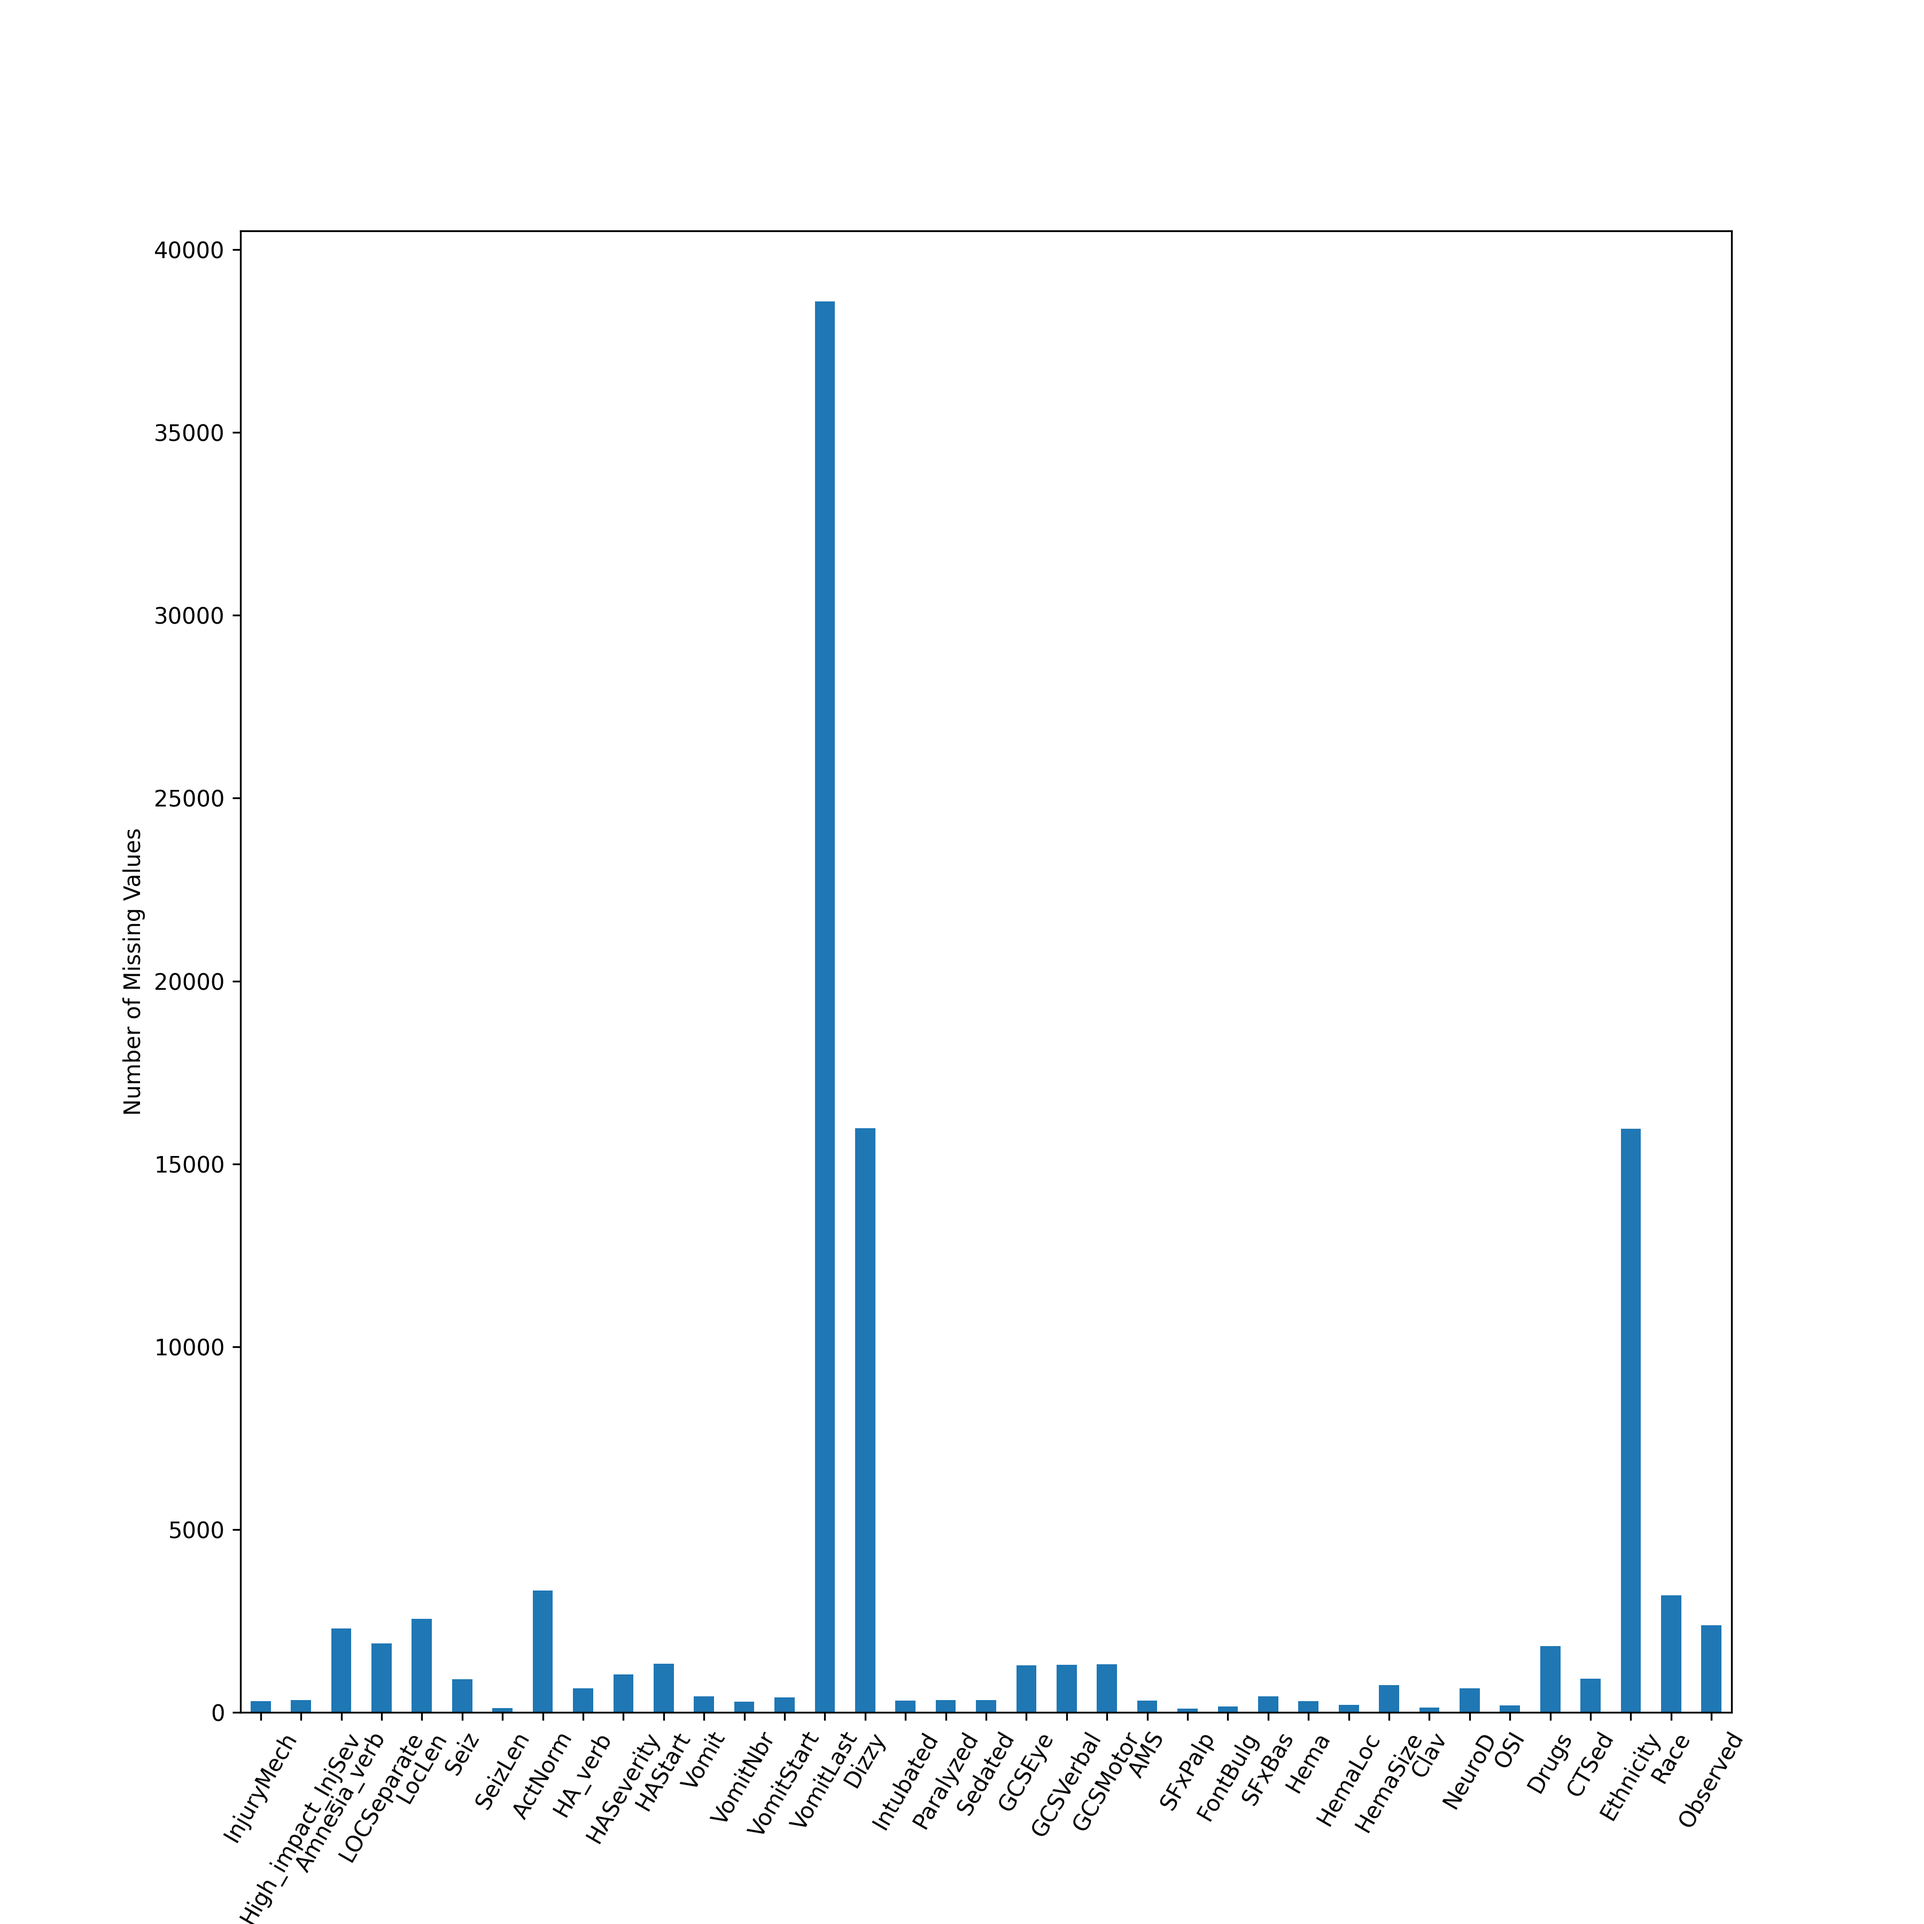
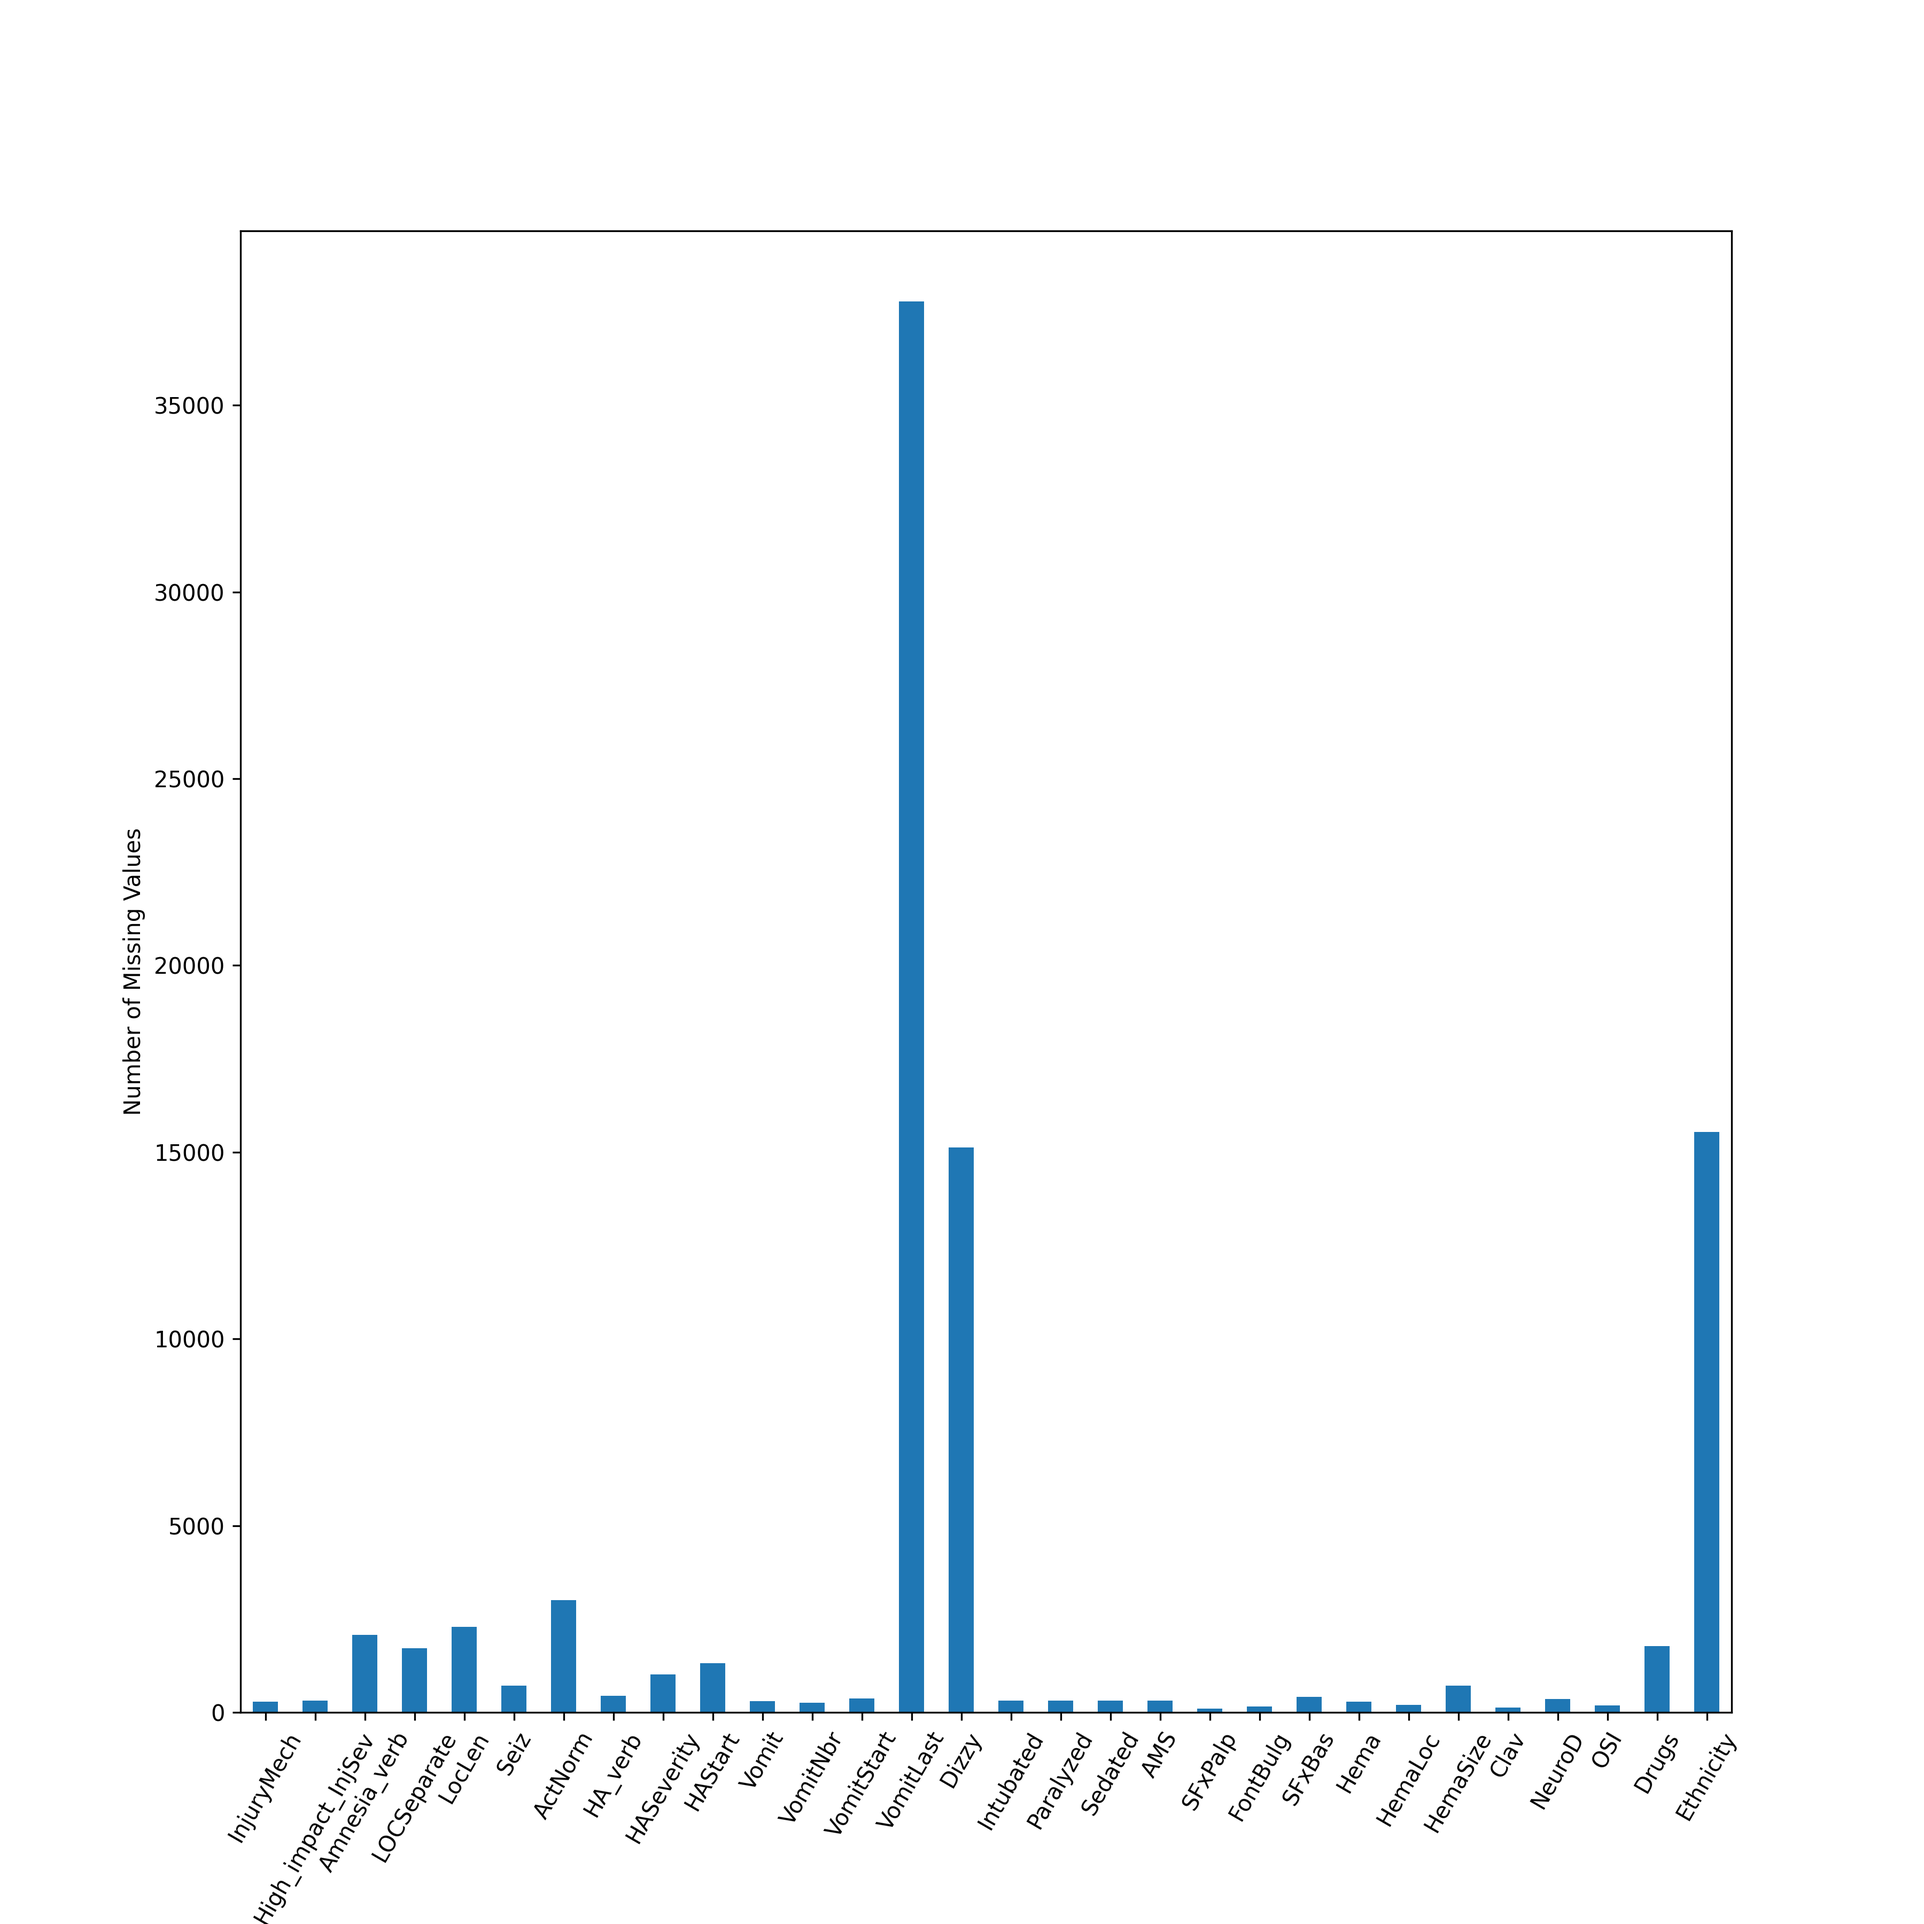
fig 2

diff --git a/rulevetting/projects/tbi_pecarn/dataset.py b/rulevetting/projects/tbi_pecarn/dataset.py
@@ -82,6 +82,7 @@ class Dataset:
         cleaned_data = df.replace('nan', np.nan)
         cleaned_data['AgeTwoPlus'] -= 1
 
+
         LOGGER.info(f"Cleaned data: {cleaned_data.shape}")
 
         return cleaned_data
@@ -132,13 +133,7 @@ class Dataset:
                 axis=1) >= 1).astype(int)
 
             LOGGER.info(f"Data shape: {cleaned_data.shape}\nciTBI: {cleaned_data['PosIntFinal'].value_counts()/cleaned_data.shape[0]}")
-            na_sum = cleaned_data.isna().sum()
-            na_sum = na_sum[na_sum > 100]
-            na_sum.reset_index(name="n").plot.bar(x='index', y='n', rot=60, fontsize=10, legend=None, figsize=(12,12))
-            plt.ylabel("Number of Missing Values")
-            plt.savefig("/accounts/campus/omer_ronen/projects/rule-vetting/results/na.png", dpi=300)
-            plt.close()
-            raise RuntimeError("Pick")
+
 
         # judgement call - we drop patients with gcs <14 and thus gcs scores
         if kwargs['drop_low_gcs']:
@@ -147,10 +142,28 @@ class Dataset:
             gcs_vars = ['GCSEye', 'GCSMotor', 'GCSVerbal']
             cleaned_data = cleaned_data.drop(columns=gcs_vars)
 
-        # cleaned_data = cleaned_data.replace('Not applicable', np.nan)
-        null_vec = cleaned_data.isnull().sum(axis=0)
+        # dropping variables that do not influence the doctors decision
+        other_vars = ['EmplType', 'Certification', 'Race']
+        cleaned_data = cleaned_data.drop(columns=other_vars)
 
-        null_vec = null_vec[null_vec != 0]
+        # removing post-ct variables that aren't the outcome
+        cleaned_data = cleaned_data.drop(columns=self.get_post_ct_names())
+
+        # cleaned_data = cleaned_data.replace('Not applicable', np.nan)
+        na_sum = cleaned_data.isna().sum()
+        na_sum = na_sum[na_sum > 100]
+        na_sum.reset_index(name="n").plot.bar(x='index', y='n', rot=60, fontsize=10, legend=None, figsize=(12, 12))
+        plt.ylabel("Number of Missing Values")
+        plt.savefig("/accounts/campus/omer_ronen/projects/rule-vetting/results/na.png", dpi=300)
+        plt.close()
+
+        most_freq = cleaned_data.apply(lambda x: x.value_counts().max() / cleaned_data.shape[0])
+        most_freq.reset_index(name="n").plot.bar(x='index', y='n', rot=60, fontsize=10, legend=None, figsize=(12, 12))
+        plt.ylabel("Proportion of Most Frequent Value")
+        plt.savefig("/accounts/campus/omer_ronen/projects/rule-vetting/results/most_freq.png", dpi=300)
+        plt.close()
+
+        raise RuntimeError("Pick")
 
         if not kwargs['propensity']:
             def _drop_nas(col):
@@ -190,15 +203,12 @@ class Dataset:
                                                                                       not_applicable_doc_feats].replace(
                     {92: 0})
 
-        # dropping variables that do not influence the doctors decision
-        other_vars = ['EmplType', 'Certification', 'Race']
-        cleaned_data = cleaned_data.drop(columns=other_vars)
+
 
         # renaming our target variable
         cleaned_data.rename(columns={'PosIntFinal': 'outcome'}, inplace=True)
 
-        # removing post-ct variables that aren't the outcome
-        cleaned_data = cleaned_data.drop(columns=self.get_post_ct_names())
+
 
         # dropping variables that do have high fraction of missing values
         hi_missing_vars = ['Dizzy', 'Ethnicity']
